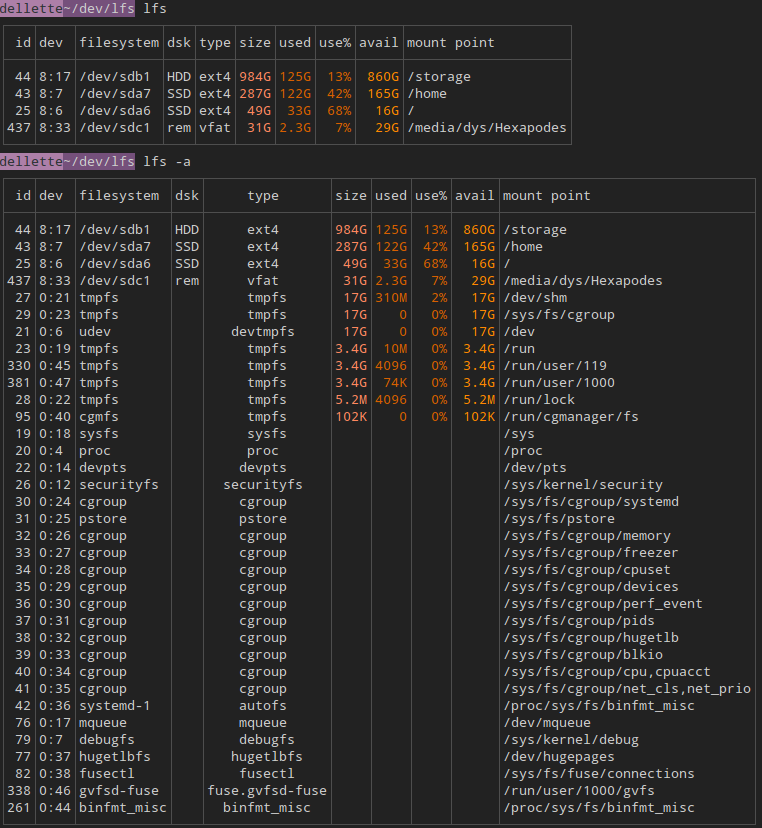
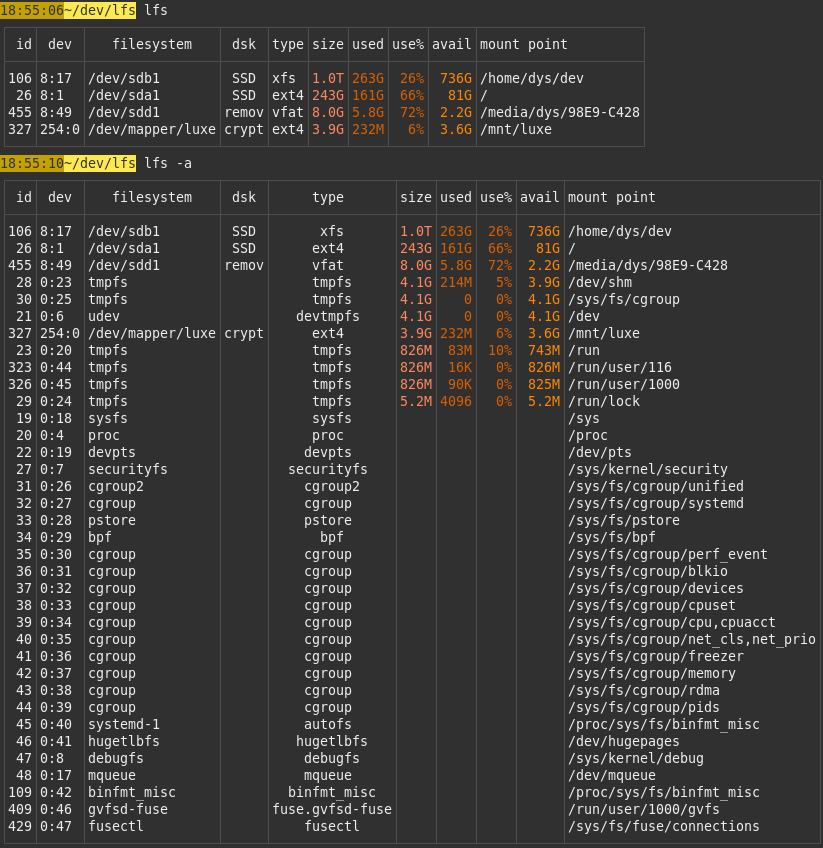
list and identify crypted disks
Fix #3

Changed region(s): [[0.0, 0.0, 1.0, 0.9964], [0.7546, 0.0604, 0.7848, 0.0906], [0.7244, 0.0302, 0.7546, 0.0604]]

diff --git a/src/json.rs b/src/json.rs
@@ -25,6 +25,8 @@ pub fn output_value(mounts: &[Mount]) -> Value {
                         "type": d.disk_type(),
                         "rotational": d.rotational,
                         "removable": d.removable,
+                        "crypted": d.crypted,
+                        "ram": d.ram,
                     })
                 });
                 json!({

diff --git a/README.md b/README.md
@@ -19,12 +19,13 @@ A linux utility listing your filesystems.
 
 ![screenshot](doc/screenshot.png)
 
-Besides traditional columns, the `dsk` column helps you identify your physical devices:
+Besides traditional columns, the `dsk` column helps you identify your "disk":
 
-* `rem` : a removable device (most often an USB key)
+* `remov` : a removable device (such as an USB key)
 * `HDD` : a rotational disk
 * `SSD` : a solid state storage device, usually quite fast
-* `RAM` : an in-memory device (zram)
+* `RAM` : an in-memory device (such as zram)
+* `crypt` : a crypted disk
 
 All sizes are based on the current SI recommendations: 1M is one million bytes.
 

diff --git a/CHANGELOG.md b/CHANGELOG.md
@@ -1,5 +1,7 @@
-### next
+<a name="v0.6.0"></a>
+### v0.6.0 - 2021/06/22
 * tag zram "disks" as "RAM"
+* list and identify crypted disks
 
 <a name="v0.5.4"></a>
 ### v0.5.4 - 2021/06/21
